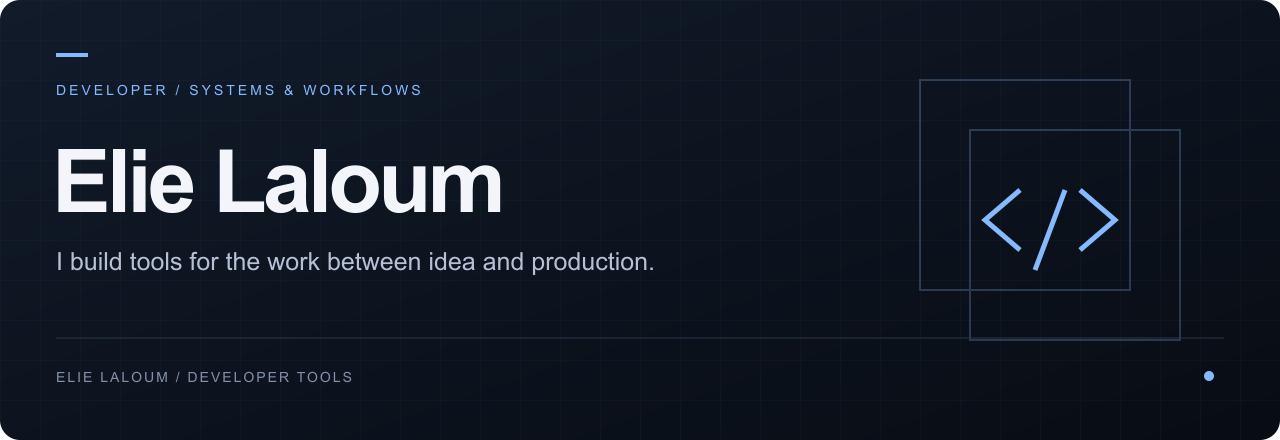
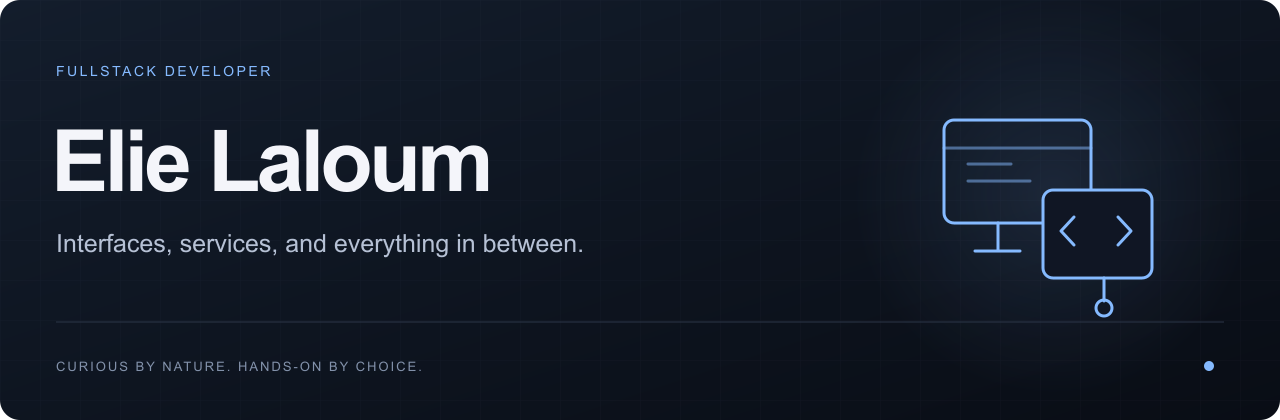
Present a fullstack developer and three selected projects

diff --git a/README.md b/README.md
@@ -1,44 +1,30 @@
 <p align="right"><a href="README.fr.md">Français</a></p>
-<img src="assets/hero.svg" width="100%" alt="Elie Laloum — Developer. Systems and workflows.">
+<img src="assets/hero.svg" width="100%" alt="Elie Laloum — Fullstack developer">
 
-I’m **Elie Laloum**, a developer building tools for everyday engineering: coordinating changes across repositories, repairing failing tests, handling dependency upgrades and measuring performance.
+I’m **Elie Laloum**, a fullstack developer. I enjoy building things end to end: the interface people use, the services behind it, and the details that make everything work together.
 
-I like small interfaces, useful automation, and results I can inspect.
+Web apps, experiments, integrations, and the occasional tool that makes a recurring problem disappear. I follow interesting problems wherever they lead.
 
-[Redline](https://github.com/elie-laloum/redline) · [Agent workflows](#agent-workflows) · [Performance-tools](#performance-tools)
+## Selected projects
 
-## The flagship
+<a href="https://github.com/elie-laloum/redline"><img src="assets/redline.svg" width="100%" alt="Redline — One ticket. Changes that work together."></a>
 
-<a href="https://github.com/elie-laloum/redline"><img src="assets/redline.svg" width="100%" alt="Redline — Challenge first. Build across repositories."></a>
+**[Redline ↗](https://github.com/elie-laloum/redline)** — Turn a Jira ticket into coordinated changes across repositories. Claude Code agents challenge the plan, build in dependency order, and prepare GitLab merge requests for review.
 
-**[Redline ↗](https://github.com/elie-laloum/redline)** coordinates a Jira ticket across repositories with Claude Code agents, adversarial TDD, persistent project memory and GitLab merge requests.
+TypeScript · Claude Code · MCP &nbsp; · &nbsp; [Watch the interface](https://github.com/elie-laloum/redline#see-it-in-action)
 
-`Challenge the request → plan the change → build & test → review → publish`
+<a href="https://github.com/elie-laloum/framebudget"><img src="assets/framebudget.svg" width="100%" alt="FrameBudget — Find the encode worth keeping."></a>
 
-**TypeScript · Claude Code · MCP · Jira · GitLab**
+**[FrameBudget ↗](https://github.com/elie-laloum/framebudget)** — Stop guessing your encoding settings. Compare size, speed and visual quality, then verify the file you keep.
 
-## Agent workflows
+Python · FFmpeg · VMAF &nbsp; · &nbsp; [Watch the demo](https://github.com/elie-laloum/framebudget#see-it-in-action)
 
-| Tool | Everyday use | Try it |
-| :--- | :--- | :--- |
-| **[TracePatch](https://github.com/elie-laloum/tracepatch)** | Turn a reproduced failure into a focused, tested patch. | [Run the demo](https://github.com/elie-laloum/tracepatch#quick-start) |
-| **[BumpLab](https://github.com/elie-laloum/bumplab)** | Upgrade a dependency and adapt the code without undoing the upgrade. | [Run the demo](https://github.com/elie-laloum/bumplab#quick-start) |
+<a href="https://github.com/elie-laloum/queryledger"><img src="assets/queryledger.svg" width="100%" alt="QueryLedger — Catch the extra queries before your users do."></a>
 
-## Performance tools
+**[QueryLedger ↗](https://github.com/elie-laloum/queryledger)** — Catch an N+1 where you can still fix it cheaply: in your tests. Give database queries an explicit budget and make regressions visible.
 
-| Tool | What it measures | Try it |
-| :--- | :--- | :--- |
-| **[FrameBudget](https://github.com/elie-laloum/framebudget)** | Encoding size, speed and visual quality across FFmpeg settings. | [Run the demo](https://github.com/elie-laloum/framebudget#quick-start) |
-| **[QueryLedger](https://github.com/elie-laloum/queryledger)** | SQL query counts against explicit budgets in Ruby tests. | [Run the demo](https://github.com/elie-laloum/queryledger#quick-start) |
+Ruby · Active Record · RSpec &nbsp; · &nbsp; [Watch the demo](https://github.com/elie-laloum/queryledger#see-it-in-action)
 
-<sub>Four early v0.1 tools with runnable demos and automated tests. Agent demos use deterministic fixtures; live-model performance is not yet evaluated.</sub>
+---
 
-## How I build
-
-- Start with a concrete developer problem and a small working path.
-- Keep changes reviewable and the evidence close to the code.
-- Measure the result before making the claim.
-
-**Working stack:** TypeScript / JavaScript · Python · Ruby · Git · CI · APIs
-
-<sub>Code lives in the repositories. Usage, boundaries and contribution notes live in their READMEs.</sub>
+Also building [TracePatch](https://github.com/elie-laloum/tracepatch) and [BumpLab](https://github.com/elie-laloum/bumplab). [Explore all repositories →](https://github.com/elie-laloum?tab=repositories)

diff --git a/README.fr.md b/README.fr.md
@@ -1,16 +1,30 @@
 <p align="right"><a href="README.md">English</a></p>
-<img src="assets/hero.svg" width="100%" alt="Elie Laloum — Développeur">
+<img src="assets/hero.svg" width="100%" alt="Elie Laloum — Développeur fullstack">
 
-Je suis **Elie Laloum**, développeur. Je construis des outils pour le travail quotidien : coordonner des changements entre dépôts, corriger des tests, migrer des dépendances et mesurer les performances.
+Je suis **Elie Laloum**, développeur fullstack. J’aime construire de bout en bout : l’interface que l’on utilise, les services derrière et les détails qui font tenir l’ensemble.
 
-## Mes projets
+Applications web, expérimentations, intégrations, parfois un outil pour faire disparaître un problème récurrent. Je suis les sujets qui m’intéressent, sans m’enfermer dans une spécialité.
 
-- **[Redline](https://github.com/elie-laloum/redline)** — Coordonner un ticket Jira entre plusieurs dépôts avec Claude Code, du TDD contradictoire et des merge requests GitLab.
-- **[TracePatch](https://github.com/elie-laloum/tracepatch)** — Passer d’un test en échec à un patch vérifié.
-- **[BumpLab](https://github.com/elie-laloum/bumplab)** — Mettre à jour une dépendance et adapter le code qui l’utilise.
-- **[FrameBudget](https://github.com/elie-laloum/framebudget)** — Comparer les compromis taille, vitesse et qualité d’un encodage vidéo.
-- **[QueryLedger](https://github.com/elie-laloum/queryledger)** — Détecter les régressions de requêtes SQL dans les tests Ruby.
+## Quelques projets
 
-Les quatre outils complémentaires sont en version initiale 0.1, avec démonstrations exécutables et tests. Les démonstrations agentiques sont déterministes ; la performance des modèles réels reste à évaluer.
+<a href="https://github.com/elie-laloum/redline"><img src="assets/redline.svg" width="100%" alt="Redline — One ticket. Changes that work together."></a>
 
-J’aime les interfaces simples, l’automatisation utile et les résultats vérifiables.
+**[Redline ↗](https://github.com/elie-laloum/redline)** — Transformer un ticket Jira en changements coordonnés entre plusieurs dépôts. Des agents Claude Code challengent le plan, développent dans l’ordre des dépendances et préparent les merge requests GitLab.
+
+TypeScript · Claude Code · MCP &nbsp; · &nbsp; [Voir l’interface](https://github.com/elie-laloum/redline#see-it-in-action)
+
+<a href="https://github.com/elie-laloum/framebudget"><img src="assets/framebudget.svg" width="100%" alt="FrameBudget — Find the encode worth keeping."></a>
+
+**[FrameBudget ↗](https://github.com/elie-laloum/framebudget)** — Comparer les réglages d’encodage avec des mesures de taille, de vitesse et de qualité, puis vérifier le fichier à conserver.
+
+Python · FFmpeg · VMAF &nbsp; · &nbsp; [Voir la démo](https://github.com/elie-laloum/framebudget#see-it-in-action)
+
+<a href="https://github.com/elie-laloum/queryledger"><img src="assets/queryledger.svg" width="100%" alt="QueryLedger — Catch the extra queries before your users do."></a>
+
+**[QueryLedger ↗](https://github.com/elie-laloum/queryledger)** — Détecter un N+1 dans les tests, avec un budget explicite de requêtes et un échec clair quand il est dépassé.
+
+Ruby · Active Record · RSpec &nbsp; · &nbsp; [Voir la démo](https://github.com/elie-laloum/queryledger#see-it-in-action)
+
+---
+
+Également : [TracePatch](https://github.com/elie-laloum/tracepatch) et [BumpLab](https://github.com/elie-laloum/bumplab). [Tous les dépôts →](https://github.com/elie-laloum?tab=repositories)
